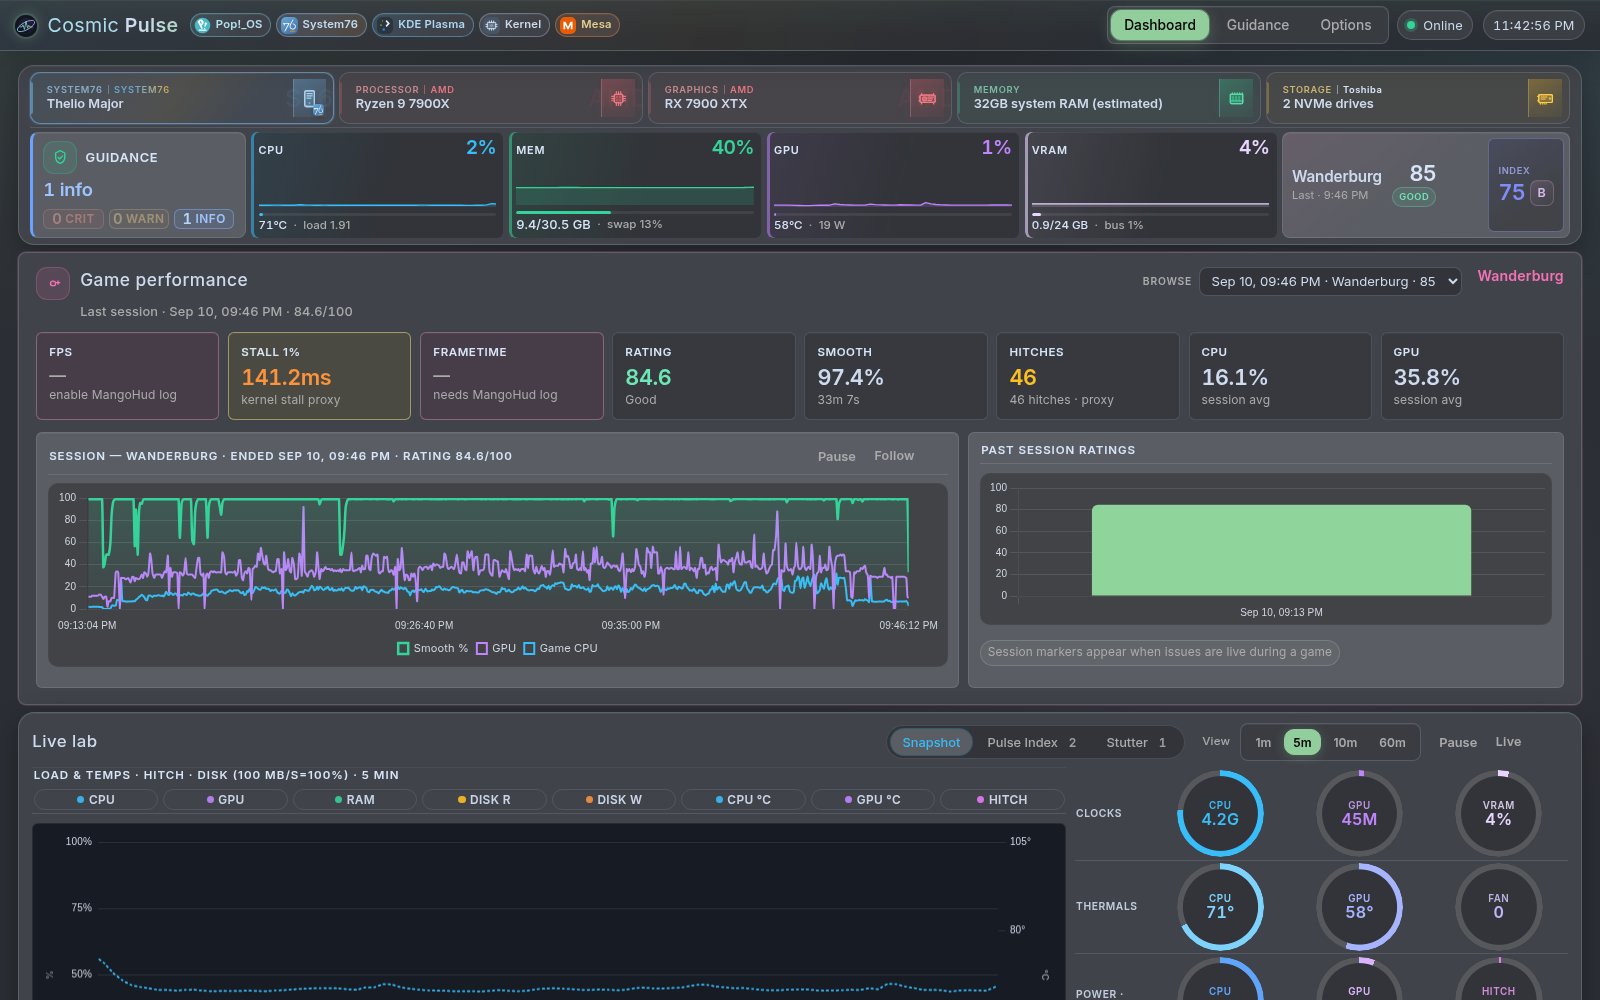
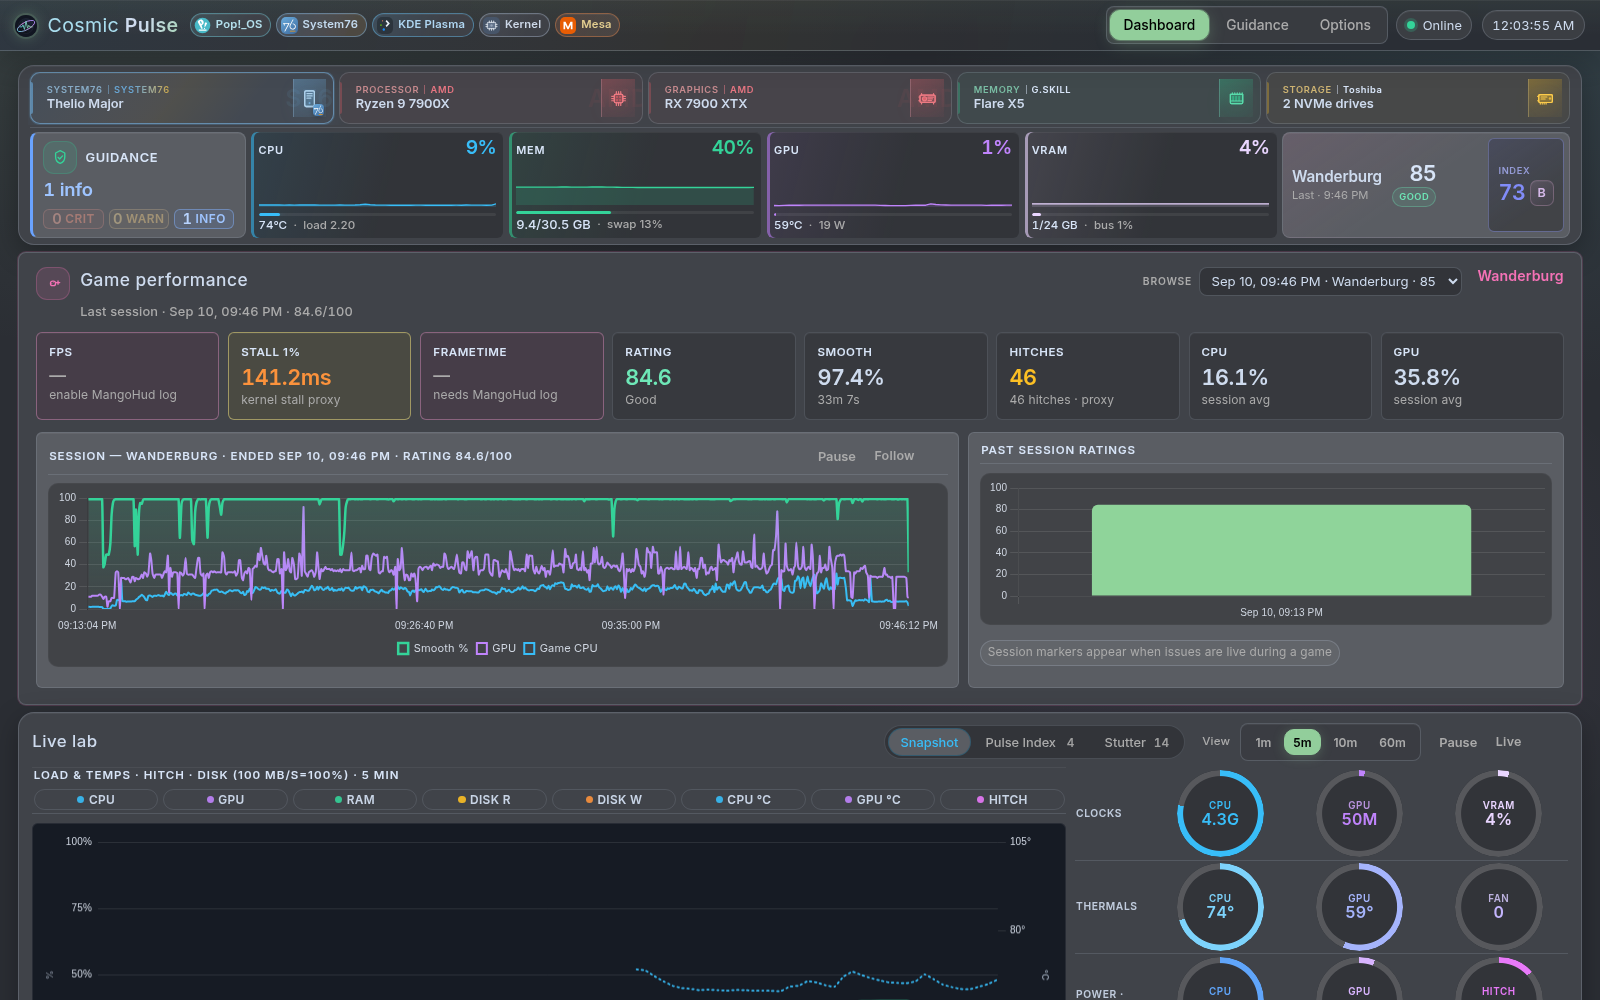
fix: point RAM probe at the packaged script and shared cache
The package move left sudo probe_memory.py and /api/probe-memory aimed
at a root shim that no longer exists, and the probe wrote a cache the
sampler never reads. Pulse Index was scoring guessed DDR5-5600 instead
of the probed G.Skill Flare X5 kit. Screenshots refreshed for Index 73 B.

diff --git a/assets/dashboard.js b/assets/dashboard.js
@@ -96,7 +96,9 @@
         if (btn) btn.onclick = async () => {
           btn.textContent = 'Need sudo in terminal…';
           btn.disabled = true;
-          const probe = pulseRoot ? `${pulseRoot}/probe_memory.py` : 'probe_memory.py';
+          const probe = pulseRoot
+            ? `${pulseRoot}/cosmic_pulse/probe_memory.py`
+            : 'cosmic_pulse/probe_memory.py';
           alert(`Run in terminal for exact RAM speed:\\n\\nsudo python3 '${probe}'\\n\\nThen refresh this page.`);
         };
       }

diff --git a/cosmic_pulse/probe_memory.py b/cosmic_pulse/probe_memory.py
@@ -9,7 +9,26 @@ import subprocess
 import sys
 from pathlib import Path
 
-CACHE = Path(__file__).resolve().parent / ".memory_cache.json"
+def probe_script_path() -> Path:
+    """Absolute path to this file — used by sudo / the dashboard hint."""
+    return Path(__file__).resolve()
+
+
+def memory_cache_path() -> Path:
+    """Same ``.memory_cache.json`` ``collectors.load_memory_spec()`` reads.
+
+    Must not live next to this module (``cosmic_pulse/.memory_cache.json``) —
+    that file is never loaded after the package move.
+    """
+    try:
+        from .paths import data_dir
+    except ImportError:
+        app_root = Path(__file__).resolve().parent.parent
+        if str(app_root) not in sys.path:
+            sys.path.insert(0, str(app_root))
+        from cosmic_pulse.paths import data_dir
+
+    return data_dir() / ".memory_cache.json"
 
 _BLANK_MFR = {
     "",
@@ -315,7 +334,7 @@ def infer_fallback() -> dict:
         "peak_gbps": 0,
         "label": f"{total_gb}GB system RAM (estimated)",
         "type": "DDR",
-        "note": "Run: sudo python3 probe_memory.py — for exact SPD speed",
+        "note": f"Run: sudo python3 {probe_script_path()} — for exact SPD speed",
     }
 
 
@@ -382,11 +401,12 @@ def main():
             pass
         elif spec["confidence"] != "exact":
             print("Could not read DMI (need root). Wrote estimated spec.", file=sys.stderr)
-            print("For exact speed: sudo python3 probe_memory.py", file=sys.stderr)
+            print(f"For exact speed: sudo python3 {probe_script_path()}", file=sys.stderr)
 
-    CACHE.write_text(json.dumps(spec, indent=2))
+    cache = memory_cache_path()
+    cache.write_text(json.dumps(spec, indent=2))
     print(json.dumps(spec, indent=2))
-    print(f"\nCached → {CACHE}")
+    print(f"\nCached → {cache}")
 
 
 if __name__ == "__main__":

diff --git a/tests/test_probe_memory.py b/tests/test_probe_memory.py
@@ -98,10 +98,35 @@ def test_enrich_from_existing_cache_shape():
     assert out["configured_mts"] == 4800
 
 
+def test_cache_path_matches_collectors() -> None:
+    from cosmic_pulse.collectors import MEMORY_CACHE
+    from cosmic_pulse.paths import data_dir
+    from cosmic_pulse.probe_memory import memory_cache_path, probe_script_path
+
+    assert memory_cache_path() == data_dir() / ".memory_cache.json"
+    assert MEMORY_CACHE == memory_cache_path()
+    script = probe_script_path()
+    assert script.name == "probe_memory.py"
+    assert script.parent.name == "cosmic_pulse"
+    assert script.is_file()
+    # Package move left no root shim — API/UI must not point here.
+    assert not (script.parent.parent / "probe_memory.py").exists()
+
+
+def test_http_api_probes_package_script() -> None:
+    src = (Path(__file__).resolve().parents[1] / "cosmic_pulse" / "http_api.py").read_text(
+        encoding="utf-8"
+    )
+    assert "ROOT / \"probe_memory.py\"" not in src
+    assert "probe_script_path" in src
+
+
 def run_all() -> None:
     test_dmi_gskill_flare_x5_keeps_live_4800()
     test_blank_manufacturer_not_unknown()
     test_enrich_from_existing_cache_shape()
+    test_cache_path_matches_collectors()
+    test_http_api_probes_package_script()
     print("test_probe_memory: ok")
 
 

diff --git a/cosmic_pulse/http_api.py b/cosmic_pulse/http_api.py
@@ -11,12 +11,14 @@ from __future__ import annotations
 
 import json
 import os
+import sys
 from http.server import BaseHTTPRequestHandler
 from urllib.parse import parse_qs, urlparse
 
 from . import collectors as col
 from . import server as srv
 from .collectors import load_memory_spec
+from .probe_memory import probe_script_path
 from .cosmic_theme import get_cosmic_theme, get_cosmic_theme_pack
 from .diagnostics import (
     diagnostics_job_status,
@@ -102,10 +104,14 @@ class Handler(BaseHTTPRequestHandler):
         elif path == "/api/probe-memory":
             import subprocess as sp
 
-            payload = {"ok": False, "message": "Run: sudo python3 probe_memory.py"}
+            script = probe_script_path()
+            payload = {
+                "ok": False,
+                "message": f"Run: sudo python3 {script}",
+            }
             try:
                 raw = sp.check_output(
-                    ["sudo", "-n", "python3", str(srv.ROOT / "probe_memory.py")],
+                    ["sudo", "-n", sys.executable, str(script)],
                     text=True,
                     timeout=8,
                     stderr=sp.DEVNULL,

diff --git a/cosmic_pulse/collectors.py b/cosmic_pulse/collectors.py
@@ -34,12 +34,11 @@ from .hardware_probe import (
     pci_to_sensor_suffix,
     probe_nvme_smart,
 )
-from .paths import data_dir
-from .probe_memory import infer_fallback
+from .probe_memory import infer_fallback, memory_cache_path
 
 VRAM_PEAK_GBPS = 800.0
 PCIE_PEAK_GBPS = 31.5
-MEMORY_CACHE = data_dir() / ".memory_cache.json"
+MEMORY_CACHE = memory_cache_path()
 _HWMON_CHIPS_TTL = 30.0
 _RAPL_DOMAIN_TTL = 60.0
 _PCI_BDF_RE = re.compile(r"([0-9a-f]{4}:[0-9a-f]{2}:[0-9a-f]{2}\.[0-9a-f])", re.I)

diff --git a/CHANGELOG.md b/CHANGELOG.md
@@ -7,6 +7,9 @@ Dates use the machine local timezone (EDT unless noted).
 
 ## [Unreleased]
 
+### Fixed
+- **RAM probe after the package move** — `sudo python3 probe_memory.py` and `/api/probe-memory` still pointed at a root script that no longer exists, and the probe wrote `cosmic_pulse/.memory_cache.json` while the sampler reads the install-root cache. Exact DIMM specs (this kit: G.Skill Flare X5 DDR5-6000 @ JEDEC 4800) never reached Pulse Index.
+
 ## [0.2.1] - 2026-09-10
 
 ### Fixed
